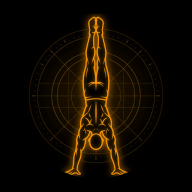
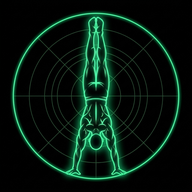
feat(branding): novo icone circular refinado sem quadrado em alunos (v95)

Changed region(s): [[0.0312, 0.0312, 0.9688, 0.9688], [0.7188, 0.7188, 0.7812, 0.7812]]

diff --git a/HELENICE/index.html b/HELENICE/index.html
@@ -5075,13 +5075,13 @@
 
   <script>
     // Limpeza forçada de caches legados para garantir que novidades apareçam imediatamente
-    const APP_BUILD_VERSION = '94';
+    const APP_BUILD_VERSION = '95';
     if (localStorage.getItem('dominio_helenice_dominio_build_ver') !== APP_BUILD_VERSION) {
       localStorage.setItem('dominio_helenice_dominio_build_ver', APP_BUILD_VERSION);
       if ('caches' in window) {
         caches.keys().then((keys) => {
           keys.forEach((k) => {
-            if (k !== 'dominio-corporal-v94') caches.delete(k);
+            if (k !== 'dominio-corporal-v95') caches.delete(k);
           });
         });
       }
@@ -6858,7 +6858,7 @@
     // Registra Service Worker (PWA Offline)
     if ('serviceWorker' in navigator) {
       window.addEventListener('load', () => {
-        navigator.serviceWorker.register('sw.js?v=94').then((reg) => {
+        navigator.serviceWorker.register('sw.js?v=95').then((reg) => {
           reg.update();
         }).catch(err => console.log('SW falhou:', err));
       });

diff --git a/helenice.html b/helenice.html
@@ -5075,13 +5075,13 @@
 
   <script>
     // Limpeza forçada de caches legados para garantir que novidades apareçam imediatamente
-    const APP_BUILD_VERSION = '94';
+    const APP_BUILD_VERSION = '95';
     if (localStorage.getItem('dominio_helenice_dominio_build_ver') !== APP_BUILD_VERSION) {
       localStorage.setItem('dominio_helenice_dominio_build_ver', APP_BUILD_VERSION);
       if ('caches' in window) {
         caches.keys().then((keys) => {
           keys.forEach((k) => {
-            if (k !== 'dominio-corporal-v94') caches.delete(k);
+            if (k !== 'dominio-corporal-v95') caches.delete(k);
           });
         });
       }
@@ -6858,7 +6858,7 @@
     // Registra Service Worker (PWA Offline)
     if ('serviceWorker' in navigator) {
       window.addEventListener('load', () => {
-        navigator.serviceWorker.register('sw.js?v=94').then((reg) => {
+        navigator.serviceWorker.register('sw.js?v=95').then((reg) => {
           reg.update();
         }).catch(err => console.log('SW falhou:', err));
       });

diff --git a/_MODELO_NOVO_ALUNO/index.html b/_MODELO_NOVO_ALUNO/index.html
@@ -5075,13 +5075,13 @@
 
   <script>
     // Limpeza forçada de caches legados para garantir que novidades apareçam imediatamente
-    const APP_BUILD_VERSION = '94';
+    const APP_BUILD_VERSION = '95';
     if (localStorage.getItem('dominio_aluno_dominio_build_ver') !== APP_BUILD_VERSION) {
       localStorage.setItem('dominio_aluno_dominio_build_ver', APP_BUILD_VERSION);
       if ('caches' in window) {
         caches.keys().then((keys) => {
           keys.forEach((k) => {
-            if (k !== 'dominio-corporal-v94') caches.delete(k);
+            if (k !== 'dominio-corporal-v95') caches.delete(k);
           });
         });
       }
@@ -6858,7 +6858,7 @@
     // Registra Service Worker (PWA Offline)
     if ('serviceWorker' in navigator) {
       window.addEventListener('load', () => {
-        navigator.serviceWorker.register('sw.js?v=94').then((reg) => {
+        navigator.serviceWorker.register('sw.js?v=95').then((reg) => {
           reg.update();
         }).catch(err => console.log('SW falhou:', err));
       });
